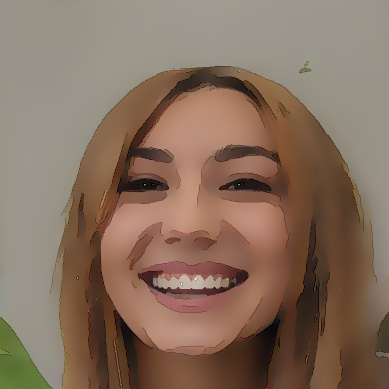
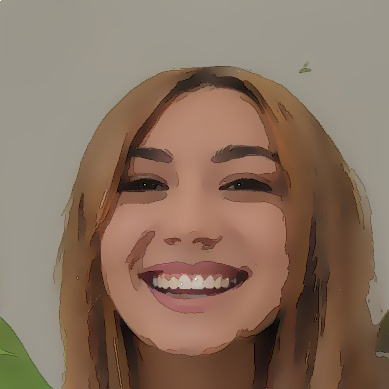
add layer seperation

diff --git a/filtering.py b/filtering.py
@@ -5,6 +5,7 @@
 # ==================================================================================================================== #
 
 # Dependencies
+from cmath import pi
 import os
 import numpy as np
 import math
@@ -16,6 +17,8 @@ import string
 
 import timeit
 
+from sklearn import neighbors
+
 from color_transfer import convert_color_space_RGB_to_GRAY
 
 
@@ -23,10 +26,13 @@ from color_transfer import convert_color_space_RGB_to_GRAY
 TWO_PI = 2.0 * math.pi
 MAX_THREAD = 6
 MAX_PROCESS_NUM = 6
-PI_1_d_2 = np.pi /2
-PI_1_d_1 = np.pi 
-PI_3_d_4 = 3*np.pi /4
-PI_2_d_1 = 2*np.pi 
+
+
+PI_1_d_8 = math.pi / 8
+PI_1_d_4 = math.pi / 4
+PI_1_d_2 = math.pi / 2
+PI_3_d_4 = 3*math.pi / 4
+PI_1_d_1 = math.pi
 
 
 # -------------------------------------------------------------------------------------------------------------------- #
@@ -84,8 +90,8 @@ def run_bilateral_filter(start_col, end_col, window_width, thread_id, input_imag
     #     return (1/(TWO_PI*sigma*sigma))*np.exp(-((data)/(2.0*sigma**2)))
 
     def our_kernel(data, sigma):
-        return np.round(np.exp(-0.5*((data)/(sigma**2)))).astype(np.float32)
-        
+        return np.round(np.exp(-0.5*((data)/(sigma**2))))
+
     sum_fr = np.zeros(input_image.shape)
     sum_gs_fr = np.zeros(input_image.shape)  # input_image * EPSILON
 
@@ -96,7 +102,7 @@ def run_bilateral_filter(start_col, end_col, window_width, thread_id, input_imag
             w_image = np.roll(input_image, [w_row, w_col], axis=[0, 1])
 
             fr = gs * our_kernel((w_image - input_image)
-                                      ** 2, sigma_intensity)
+                                 ** 2, sigma_intensity)
 
             sum_gs_fr += w_image * fr
             sum_fr += fr
@@ -104,6 +110,7 @@ def run_bilateral_filter(start_col, end_col, window_width, thread_id, input_imag
     pickle.dump(sum_fr, open(
         os.path.join(os.path.dirname(os.path.abspath(__file__)), 'bilateralsum_fr{0}.tmp'.format(thread_id)), 'wb'),
         pickle.HIGHEST_PROTOCOL)
+
     pickle.dump(sum_gs_fr, open(
         os.path.join(os.path.dirname(os.path.abspath(__file__)), 'bilateralsum_gs_fr{0}.tmp'.format(thread_id)), 'wb'),
         pickle.HIGHEST_PROTOCOL)
@@ -168,7 +175,7 @@ def bilateral_filter(input_image, sigma_space=10.0, sigma_intensity=0.1, radius_
 
     sum_gs_fr = sum_gs_fr / sum_fr
 
-    return (sum_gs_fr * 255.0).clip(0.0, 255.0).astype(np.uint8)
+    return (sum_gs_fr * 255.0).clip(0.0, 255.0)
 
 
 # -------------------------------------------------------------------------------------------------------------------- #
@@ -238,7 +245,7 @@ def mean_filter(input_image, radius_window_width=1):
 
     sum_fr = sum_fr / (total_window_length ** 2)
 
-    return sum_fr.clip(0.0, 255.0).astype(np.uint8)
+    return sum_fr.clip(0.0, 255.0)
 
 
 def convolve(image, filtered):
@@ -313,33 +320,28 @@ def run_non_max_suppression(file_name, start_row, end_row, im, gradient_angle):
     begin_row = start_row
     if start_row == 0:
         begin_row = 1
+
     if end_row == rows:
         end_row = rows - 1
 
-    angle = gradient_angle * 180. / np.pi
-    angle[angle < 0] += 180
+    gradient_angle[gradient_angle < 0] += PI_1_d_1
+
+    run_angle = [(0, PI_1_d_8, (0, 1), (0, -1)),
+                 (PI_1_d_4 - PI_1_d_8, PI_1_d_4 + PI_1_d_8, (1, -1), (-1, 1)),
+                 (PI_1_d_2 - PI_1_d_8, PI_1_d_2 + PI_1_d_8, (1, 0), (-1, 0)),
+                 (PI_3_d_4 - PI_1_d_8, PI_3_d_4 + PI_1_d_8, (-1, -1), (1, 1)),
+                 (PI_1_d_1 - PI_1_d_8, PI_1_d_1, (0, 1), (0, -1))]
 
     for i in range(begin_row, end_row):
         for j in range(1, cols - 1):
             q = 255
             r = 255
 
-            # angle 0
-            if (0 <= angle[i, j] < 22.5) or (157.5 <= angle[i, j] <= 180):
-                q = im[i, j + 1]
-                r = im[i, j - 1]
-            # angle 45
-            elif 22.5 <= angle[i, j] < 67.5:
-                q = im[i + 1, j - 1]
-                r = im[i - 1, j + 1]
-            # angle 90
-            elif 67.5 <= angle[i, j] < 112.5:
-                q = im[i + 1, j]
-                r = im[i - 1, j]
-            # angle 135
-            elif 112.5 <= angle[i, j] < 157.5:
-                q = im[i - 1, j - 1]
-                r = im[i + 1, j + 1]
+            for ra in run_angle:
+                if ra[0] <= gradient_angle[i, j] < ra[1]:
+                    q = im[i + ra[2][0], j + ra[2][1]]
+                    r = im[i + ra[3][0], j + ra[3][1]]
+                    break
 
             if (im[i, j] >= q) and (im[i, j] >= r):
                 result[i - start_row, j] = im[i, j]
@@ -389,14 +391,17 @@ def run_hysteresis(file_name, start_row, end_row, im, weak=127, strong=255):
     if end_row == 0:
         stop_row == rows - 1
 
+    neighbors = [(-1, -1), (-1, 0), (-1, 1), (0, -1),
+                 (0, 1), (1, -1), (1, 0), (1, 1)]
+
     for i in range(begin_row, stop_row):
         for j in range(1, cols - 1):
             if im[i, j] == weak:
-                if (im[i + 1, j - 1] == strong) or (im[i + 1, j] == strong) or (im[i + 1, j + 1] == strong) \
-                        or (im[i, j - 1] == strong) or (im[i, j + 1] == strong) \
-                        or (im[i - 1, j - 1] == strong) or (im[i - 1, j] == strong) or (im[i - 1, j + 1] == strong):
-                    im[i, j] = strong
-                else:
+                for n in neighbors:
+                    if (im[i + n[0], j + n[1]] == strong):
+                        im[i, j] = strong
+                        break
+                if im[i, j] == weak:
                     im[i, j] = 0
 
     pickle.dump(im[start_row:end_row, :], open(
@@ -406,14 +411,14 @@ def run_hysteresis(file_name, start_row, end_row, im, weak=127, strong=255):
 # -------------------------------------------------------------------------------------------------------------------- #
 # CANNY EDGE DETECTION
 # -------------------------------------------------------------------------------------------------------------------- #
-def canny_edge_detection(img):
+def canny_edge_detection(img, gaussian_kernel=3, sigma=1):
     if len(img.shape) > 2:
         I = convert_color_space_RGB_to_GRAY(img)
     else:
         I = img
 
     # Noise reduce by gaussian
-    I = gaussian_filters(I)
+    I = gaussian_filters(I, gaussian_kernel, sigma)
 
     (I, gradient_angle) = sobel_filters(I)
 
@@ -478,6 +483,96 @@ def run_parallel(im, func, parameters=()):
 
     os.rmdir(current_path)
     return np.vstack(np.array(combine_image))
+
+
+def color_reducer(im, num_of_level):
+    return np.round(im / num_of_level)*num_of_level
+
+
+def layer_separation(input_image, threshold):
+    np.seterr(divide='ignore', invalid='ignore')
+    def is_similar(point1, point2, threshold):
+
+        a = point1
+        b = point2
+    
+        diff = np.abs(100.0*(a - b)/a)
+
+        if np.all(diff < threshold):
+            return True
+
+        return False
+
+    image = input_image
+
+    color_dict = {}
+    total_color_dict = {}
+
+    result = np.full(
+        (input_image.shape[0], input_image.shape[1]), -1, dtype=int)
+    result2 = np.full_like(input_image, 0, dtype=np.float64)
+
+    stack_similar = [(0, 0)]
+
+    stack_non_similar_dict = {}
+    stack_non_similar = []
+
+    label = 0
+
+    color_dict[label] = input_image[0, 0]
+    total_color_dict[label] = 1
+    result[0, 0] = label
+
+    while len(stack_similar) > 0 or len(stack_non_similar) > 0:
+
+        if len(stack_similar) > 0:
+            (x, y) = stack_similar.pop()
+
+        elif len(stack_non_similar) > 0:
+
+            (x, y) = stack_non_similar.pop()
+
+            if np.any(result[x, y] == -1):
+                label += 1
+                result[x, y] = label
+                color_dict[label] = input_image[x, y].copy()
+                total_color_dict[label] = 1
+            else:
+                continue
+
+        neighbors = [(x-1, y), (x+1, y), (x-1, y-1), (x+1, y+1),
+                     (x-1, y+1), (x+1, y-1), (x, y-1), (x, y+1)]
+
+        for n in neighbors:
+
+            if (0 <= n[0] <= image.shape[0] - 1) and (0 <= n[1] <= image.shape[1]-1) and result[n[0], n[1]] == -1:
+
+                if is_similar(image[x, y], image[n[0], n[1]], threshold):
+
+                    result[n[0], n[1]] = label
+
+                    color_dict[label] += input_image[x, y].copy()
+                    total_color_dict[label] += 1
+
+                    stack_similar.append(n)
+                    if n in stack_non_similar_dict:
+                        del stack_non_similar_dict[n]
+
+                else:
+                    if n not in stack_non_similar_dict:
+                        stack_non_similar.append(n)
+                        stack_non_similar_dict[n] = True
+
+    color = {}
+    for key in color_dict.keys():
+        color[key] = color_dict[key] / total_color_dict[key]
+    y = (input_image.shape[0]*input_image.shape[1]) // 100
+    for r in range(result2.shape[0]):
+        for c in range(result2.shape[1]):
+            result2[r, c] = (input_image[r, c] + color[result[r, c]])/2
+
+    return result2.clip(0.0, 255.0)
+
 
 # if __name__ == '__main__':
 #     file_name = "./img_test/image1.jpg"

diff --git a/our_algorithm.py b/our_algorithm.py
@@ -1,5 +1,5 @@
 from upload_image import upload_image, read_image
-from filtering import bilateral_filter, median_filter, canny_edge_detection, sobel_filter
+from filtering import bilateral_filter, color_reducer, median_filter, canny_edge_detection, sobel_filter, layer_separation
 from color_transfer import convert_color_space_RGB_to_GRAY, convert_color_space_RGB_to_BGR
 import timeit
 import cv2
@@ -18,15 +18,31 @@ def increase_dim(e, I):
 
 def landscape_pictures(I):
     start = timeit.default_timer()
-    k = round(math.sqrt(I.shape[0]*I.shape[1])/500)*7
+    m = round(math.sqrt(I.shape[0]*I.shape[1])/500)
+    k = m*3
     if k < 1:
         k = 1
-    for i in range(3):
-        I = bilateral_filter(I, k, k / 100, k)
+
+    I = bilateral_filter(I, 2, 2 / 70, 2)
+
+    I = layer_separation(I, 5)
+
+    cv2.imwrite('./img_test/temp.jpg', I)
+
+    print('k =', k)
+    for _ in range(3):
+        I = bilateral_filter(I, k, k / 70, k)
 
     ip_gray = convert_color_space_RGB_to_GRAY(I)
 
-    c = canny_edge_detection(ip_gray)
+    h = m*3
+    if h < 3:
+        h = 3
+
+    print('h =', h)
+
+    c = canny_edge_detection(ip_gray, h)
+
     I = I - increase_dim(c, I)
     I = I.clip(0.0, 255.0).astype(np.uint8)
 
@@ -38,29 +54,41 @@ def landscape_pictures(I):
 
 def portrait_pictures(I):
     start = timeit.default_timer()
-    k = round(math.sqrt(I.shape[0]*I.shape[1])/500)*5
+    m = round(math.sqrt(I.shape[0]*I.shape[1])/500)
+    k = m*5
     if k < 1:
         k = 1
+    I = bilateral_filter(I, k, k / 100, k)
 
-    for i in range(5):
+
+   
+
+    I = layer_separation(I, 2)
+    cv2.imwrite('./img_test/temp.jpg', I)
+
+    print('k =', k)
+    for _ in range(3):
         I = bilateral_filter(I, k, k / 100, k)
 
     ip_gray = convert_color_space_RGB_to_GRAY(I)
-
     c = canny_edge_detection(ip_gray)
+    cv2.imwrite('./img_test/temp_canny.jpg', c)
+
+
     I = I - increase_dim(c, I) * 0.1
-    I = I.clip(0.0, 255.0).astype(np.uint8)
+    I = I.clip(0.0, 255.0)
 
     stop = timeit.default_timer()
     print('Time: ', stop - start)
 
     return I
 
-if __name__ == '__main__':
-    img_path = './img_test/phuoc.png'
 
-    I = cv2.imread(img_path, cv2.COLOR_BGR2RGB).astype('float32')
+# if __name__ == '__main__':
+#     img_path = './img_test/test1.jpg'
 
-    I = portrait_pictures(I)
+#     I = cv2.imread(img_path, cv2.COLOR_BGR2RGB).astype('float32')
 
-    cv2.imwrite('./img_test/phuoc_result.jpg', I)
+#     I = landscape_pictures(I)
+#     # I = portrait_pictures(I)
+#     cv2.imwrite('./img_test/_result.jpg', I)
